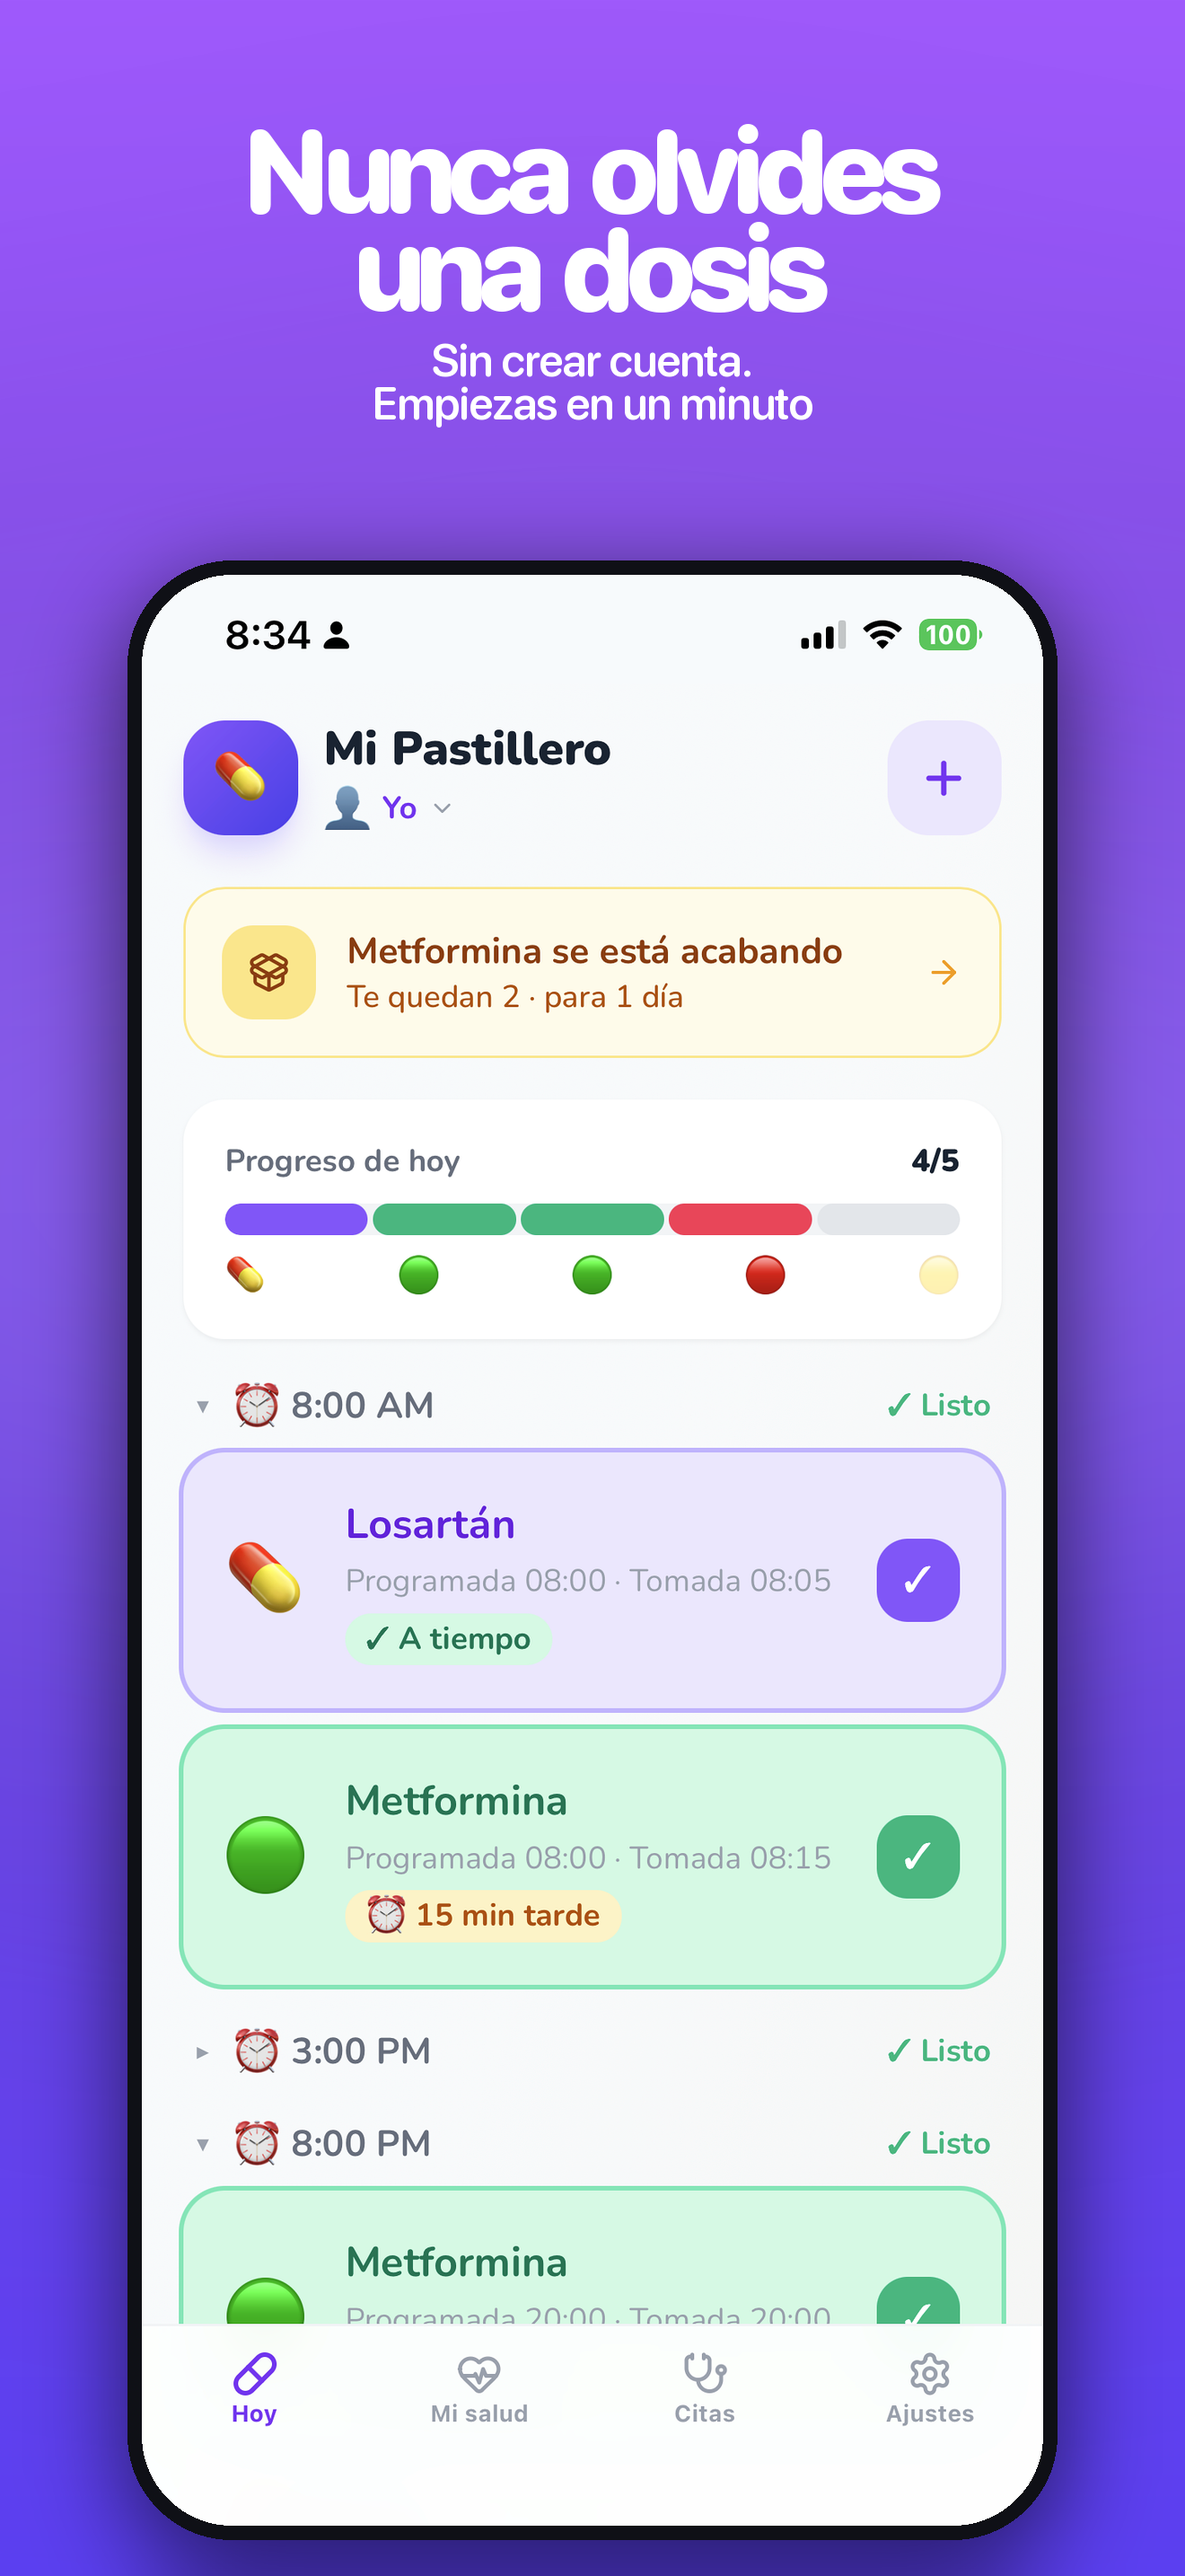
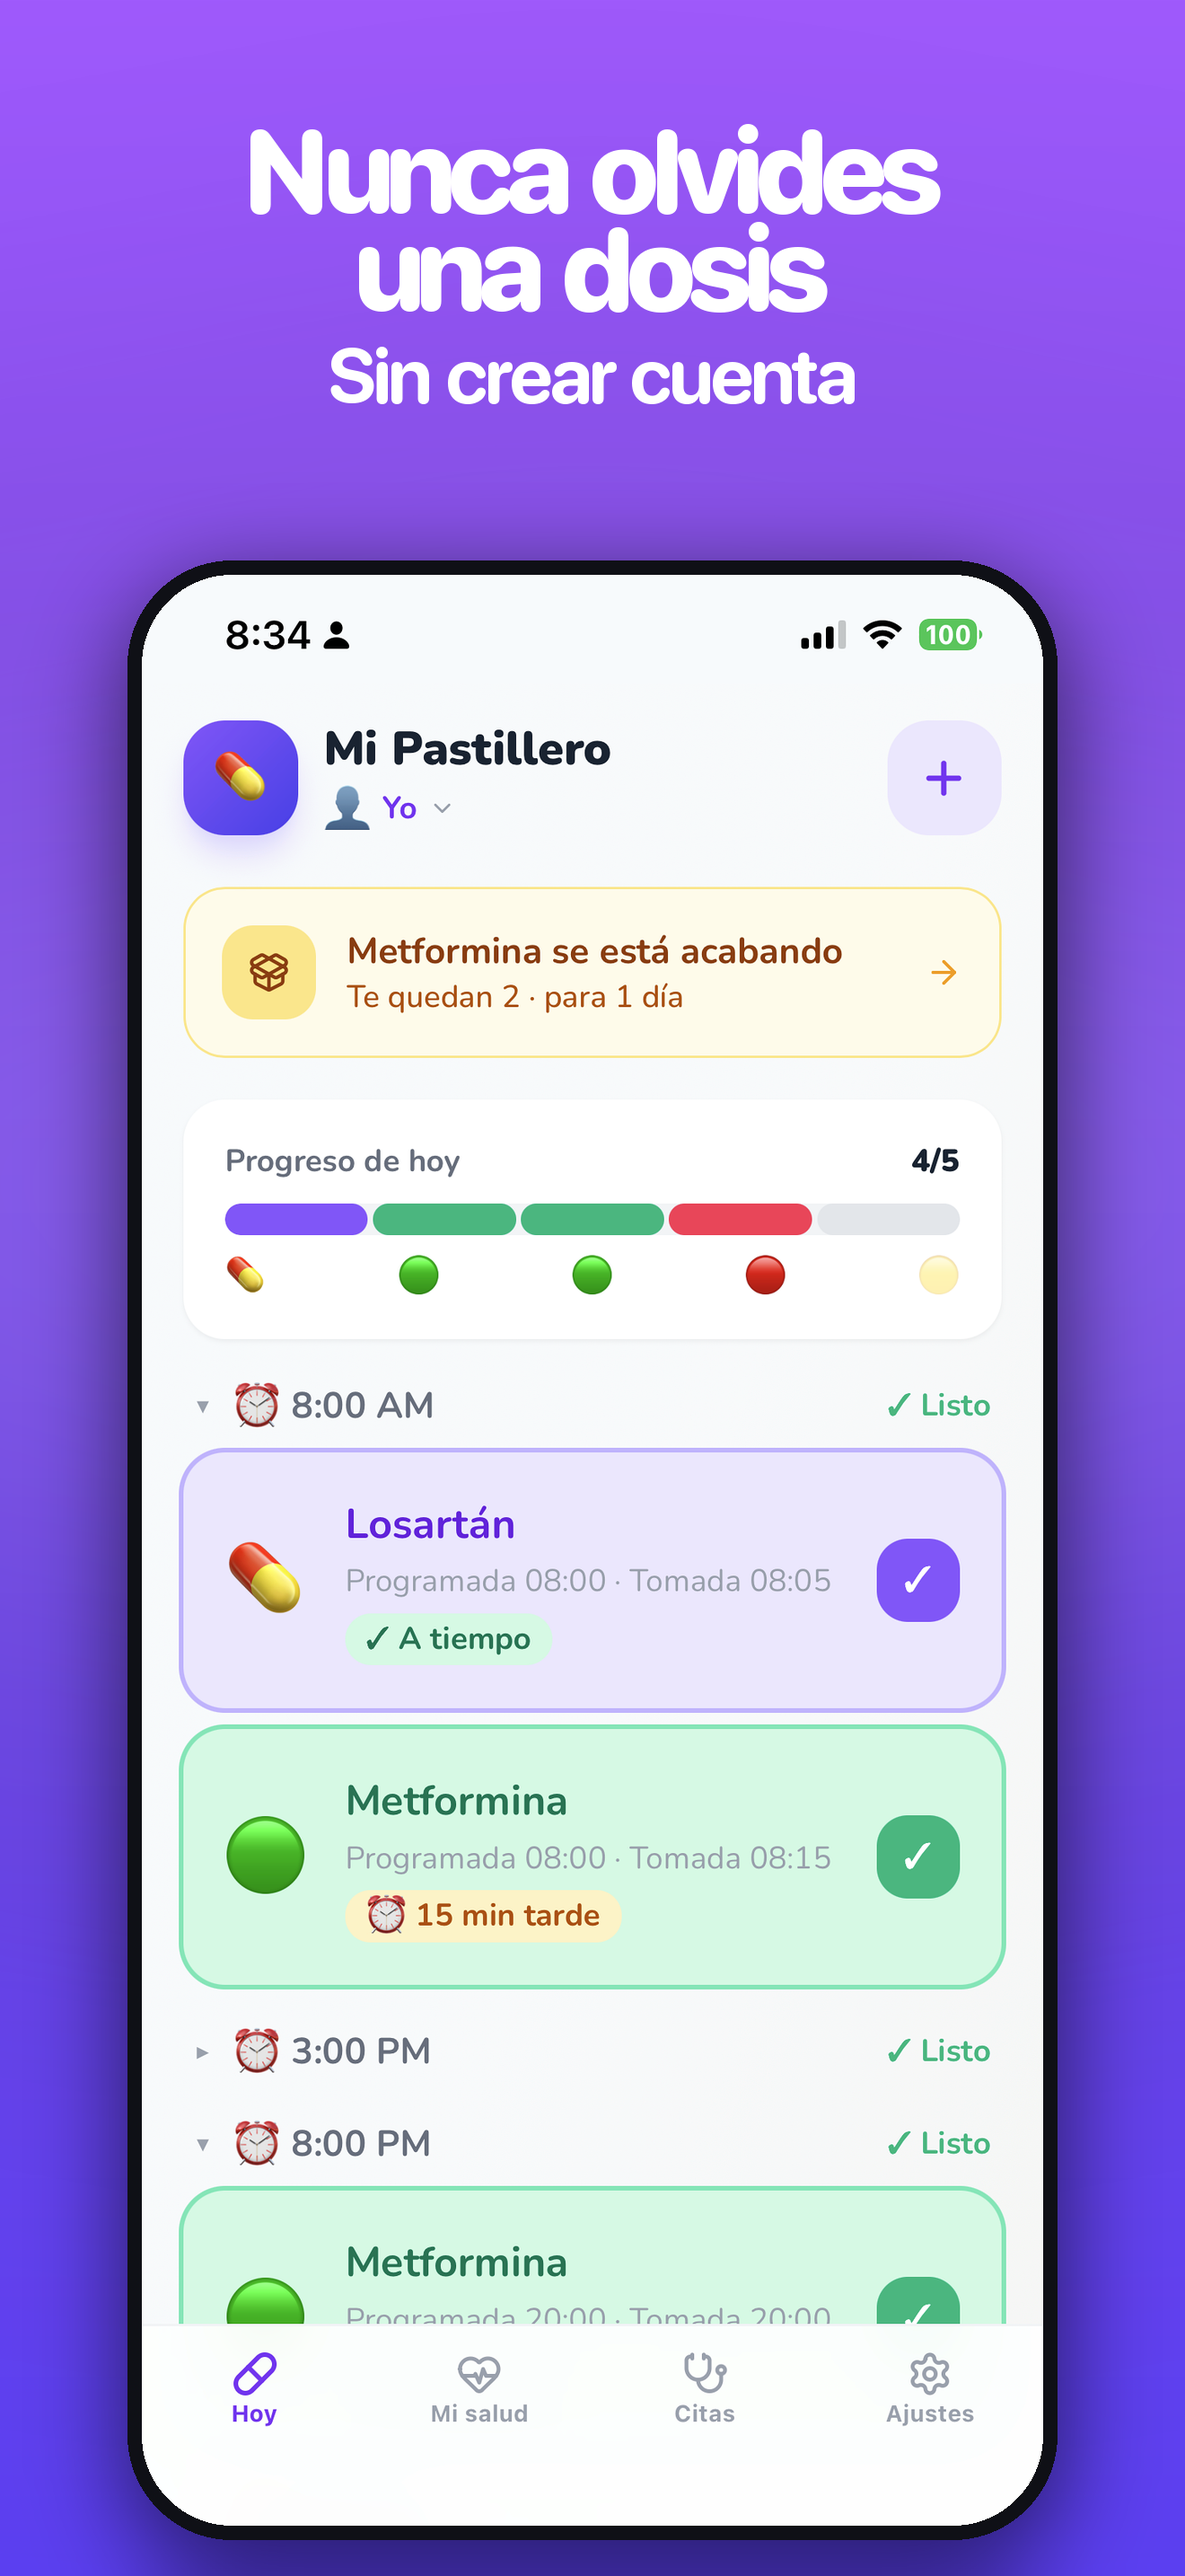
feat(tienda): el trío de búsqueda deja de ser la misma foto dos veces
Los tres primeros paneles son los que salen en el resultado de búsqueda, a ~100 px
de ancho cada uno. A ese tamaño el 1 y el 2 eran los dos una lista de tarjetas de
colores —la misma imagen repetida— y el subtítulo, a 50 px, medía unos 4 px: no lo
leía nadie. Entre el 3 y el 24 de agosto el toque sobre la impresión pasó del 50%
al 5%, con las impresiones multiplicadas por 4.6 y ni una visita más a la ficha.

Cambian tres cosas, para poder saber cuál movió la aguja:
  · orden: hoy -> calendario -> citas. Tres formas distintas a tamaño de miniatura.
    La caja se va al cuarto puesto; nadie que busca "pastillero" busca existencias.
  · un solo morado en los tres, que se lean como un bloque y no como tres apps.
  · subtítulo de 50 a 86 px y de una sola línea. "Sin crear cuenta" es la objeción
    número uno de quien descarga una app de salud y estaba escrita donde no se veía.

Los ocho se regeneran para que la ficha no quede remendada al hacer scroll.
El nombre NO se toca: la caída está en el paso que gobiernan las capturas, y son
tres semanas de datos con dos cambios encima.

Changed region(s): [[0.2795, 0.1241, 0.7144, 0.1862]]

diff --git a/screenshots/make_appstore.py b/screenshots/make_appstore.py
@@ -59,44 +59,51 @@ def draw_block(draw, lines, cx, top, fnt, fill, line_gap):
 
 # top / bot = fondo; glow = tinte del brillo radial
 PANELS = [
-    # Los ocho de la 2.0. Los seis de julio se quedaron obsoletos: retrataban la cabecera vieja
-    # (el interruptor Hoy|Mes y los tres iconos), y la guía 2.3.3 de Apple exige que los
-    # screenshots reflejen la app real — no es cuestión de estética, es riesgo de rechazo.
-    # El primero dice "sin crear cuenta" a propósito: es la objeción número uno de quien acaba de
-    # descargar una app de salud, y desde el modelo sin muros por fin es verdad.
+    # ── Los tres primeros son los que salen en el RESULTADO DE BÚSQUEDA, a ~100 px de ancho
+    # cada uno. A ese tamaño solo sobrevive el titular, así que mandan tres reglas:
+    #   · formas distintas entre sí (lista / calendario / pantalla que respira). Antes el 1 y el 2
+    #     eran los dos una lista de tarjetas de colores: a 100 px, la misma foto dos veces.
+    #   · un solo morado, para que se lean como un bloque y no como tres apps.
+    #   · subtítulo de UNA línea. "Sin crear cuenta" es la objeción número uno de quien descarga
+    #     una app de salud, y estaba escrita donde no se leía.
+    # La caja, que es lo más nuevo, se va al cuarto puesto: nadie que busca "pastillero" busca
+    # control de existencias, y a tamaño de miniatura era idéntica al primero.
     dict(img="p1_hoy.PNG", top=(0xA1,0x5B,0xFF), bot=(0x5B,0x3F,0xF0),
          glow=(0xC6,0xA8,0xFF),
          head=["Nunca olvides","una dosis"],
-         sub=["Sin crear cuenta.","Empiezas en un minuto"]),
+         sub=["Sin crear cuenta"]),
+    dict(img="p3_historial.PNG", top=(0xA1,0x5B,0xFF), bot=(0x5B,0x3F,0xF0),
+         glow=(0xC6,0xA8,0xFF),
+         head=["Tu adherencia,","de un vistazo"],
+         sub=["Verde, naranja o rojo"]),
+    dict(img="p6_citas.PNG", top=(0xA1,0x5B,0xFF), bot=(0x5B,0x3F,0xF0),
+         glow=(0xC6,0xA8,0xFF),
+         head=["No olvides","tus citas"],
+         sub=["Con recordatorio"]),
+    # ── Del cuarto en adelante ya no compiten en la lista de resultados: aquí cada uno puede
+    # tener su color. Lo que se mantiene es el subtítulo de una línea.
     dict(img="p2_caja.PNG", top=(0xC2,0x6A,0x2B), bot=(0x7A,0x3C,0xC8),
          glow=(0xF0,0xB0,0x70),
          head=["Se te acaba la caja,","y lo sabes antes"],
-         sub=["Cuenta lo que te queda y te avisa","días antes de que se acabe"]),
-    dict(img="p3_historial.PNG", top=(0x8B,0x3F,0xF5), bot=(0x4B,0x3A,0xD0),
-         glow=(0xB6,0x90,0xFF),
-         head=["Tu adherencia,","de un vistazo"],
-         sub=["Verde, naranja o rojo:","siempre sabes cómo vas"]),
+         sub=["Te avisa días antes"]),
     dict(img="p4_personas.PNG", top=(0xA1,0x5B,0xFF), bot=(0x5B,0x3F,0xF0),
          glow=(0xC6,0xA8,0xFF),
          head=["Cuida a toda","tu familia"],
-         sub=["Una persona por perfil,","con historial propio"]),
+         sub=["Una persona, un perfil"]),
     dict(img="p5_emergencia.PNG", top=(0xE0,0x45,0x6B), bot=(0x6D,0x2E,0xC8),
          glow=(0xFF,0x9A,0xB0),
          head=["Tu información,","el día que algo pasa"],
-         sub=["Alergias y medicamentos,","listos para compartir"]),
-    dict(img="p6_citas.PNG", top=(0x8B,0x3F,0xF5), bot=(0x43,0x38,0xCA),
-         glow=(0xB6,0x90,0xFF),
-         head=["No olvides","tus citas"],
-         sub=["Con recordatorio,","para no llegar tarde"]),
+         sub=["Alergias y medicamentos"]),
     dict(img="p7_reporte.PNG", top=(0x63,0x4B,0xEA), bot=(0x3A,0x2F,0xB0),
          glow=(0x9A,0x88,0xFF),
          head=["Un reporte listo","para tu médico"],
-         sub=["Exporta todo a Excel","y compártelo"]),
+         sub=["Exporta a Excel"]),
     dict(img="p8_oscuro.PNG", top=(0x63,0x4B,0xEA), bot=(0x0D,0x0A,0x24),
          glow=(0x8B,0x6B,0xF0),
          head=["Cuida tu vista,","día y noche"],
-         sub=["Modo claro y oscuro,","automático"]),
+         sub=["Modo claro y oscuro"]),
 ]
+
 
 CONTENT_W = 1004
 BEZEL = 16
@@ -104,7 +111,7 @@ RADIUS = 100
 BOTTOM_MARGIN = 40
 
 f_head = font(130, 850)
-f_sub = font(50, 580)
+f_sub = font(86, 700)
 
 for i, p in enumerate(PANELS, 1):
     canvas = gradient(p["top"], p["bot"]).convert("RGBA")
@@ -114,8 +121,8 @@ for i, p in enumerate(PANELS, 1):
 
     cx = W/2
     y = draw_block(draw, p["head"], cx, 138, f_head, (255,255,255,255), line_gap=8)
-    y += 26
-    draw_block(draw, p["sub"], cx, y, f_sub, (255,255,255,220), line_gap=10)
+    y += 30
+    draw_block(draw, p["sub"], cx, y, f_sub, (255,255,255,245), line_gap=10)
 
     # --- Screenshot con un toque de vida (color/contraste/nitidez) ---
     shot = Image.open(os.path.join(SRC, p["img"])).convert("RGB")
